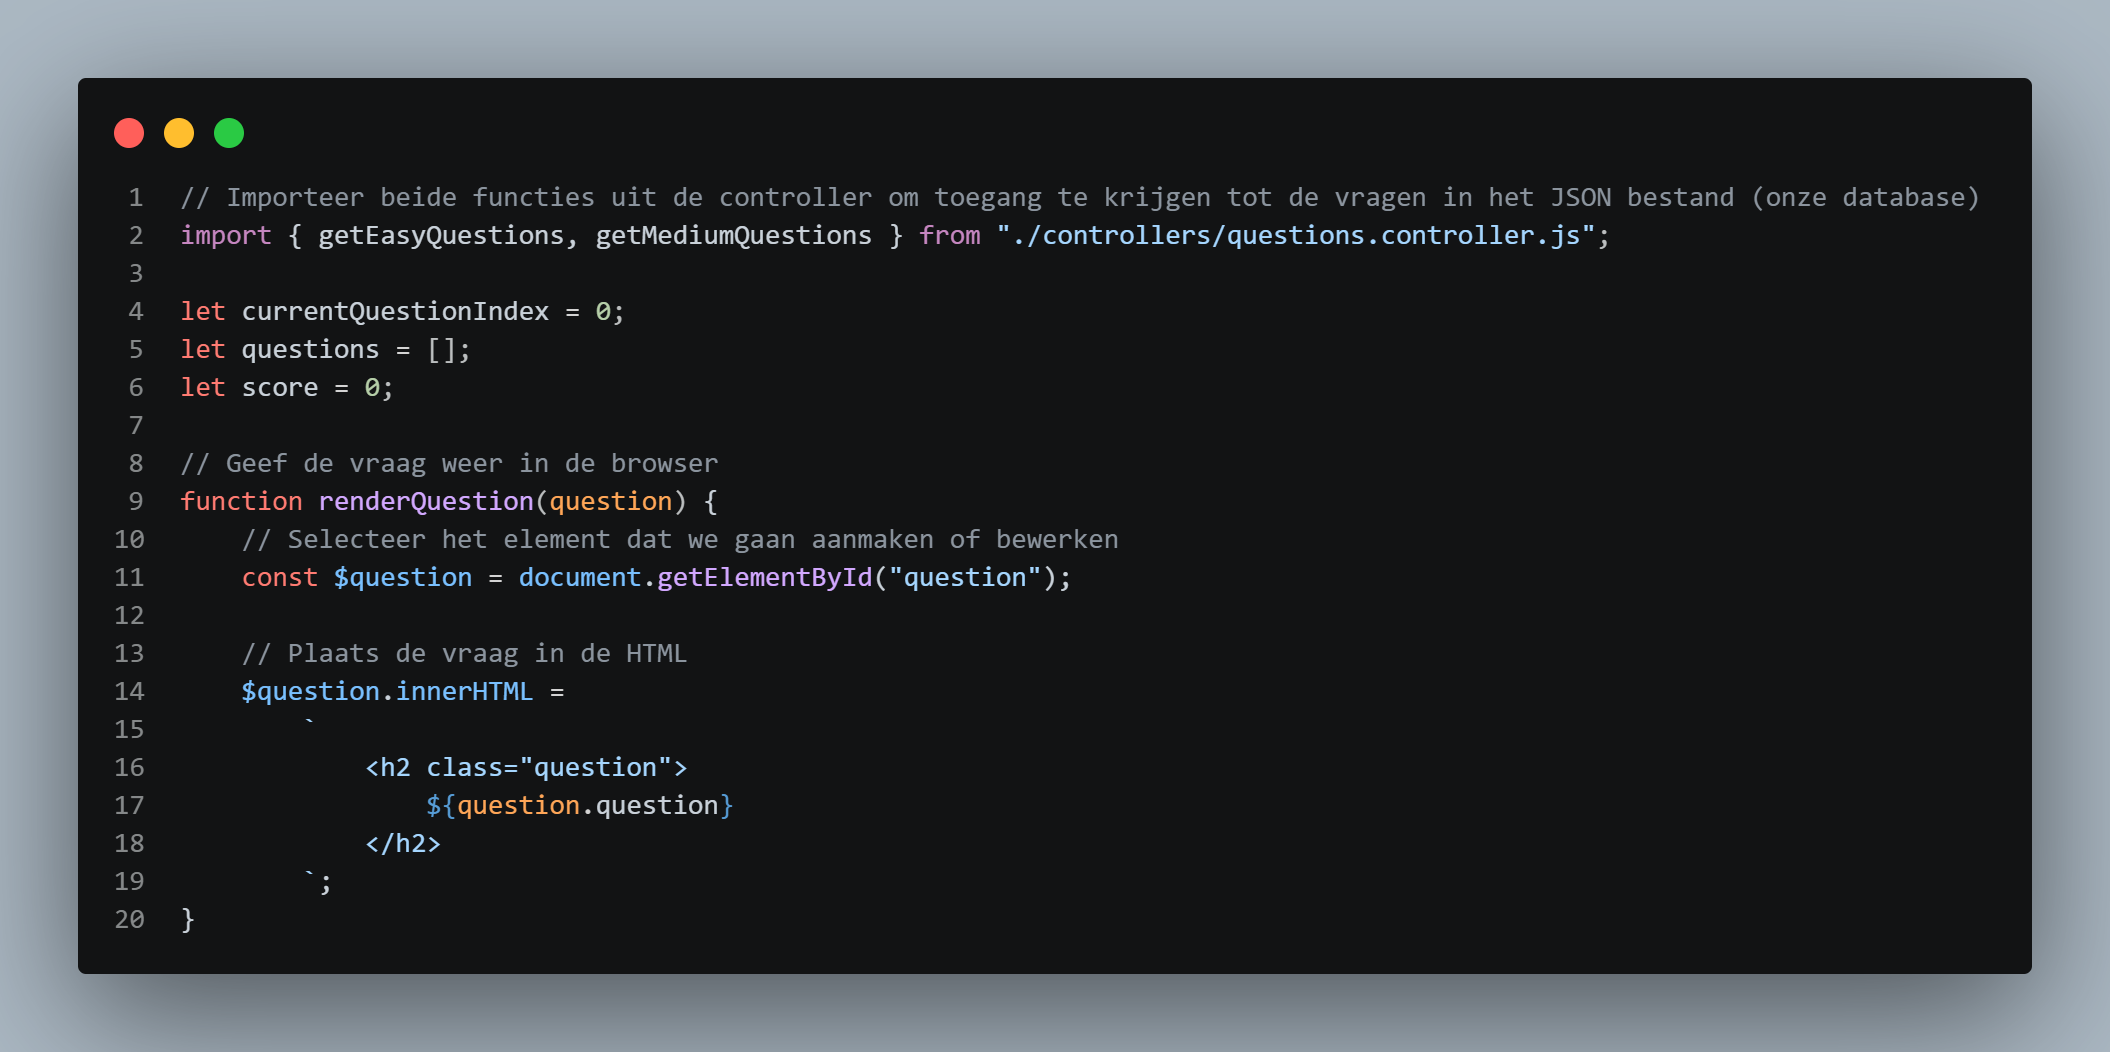
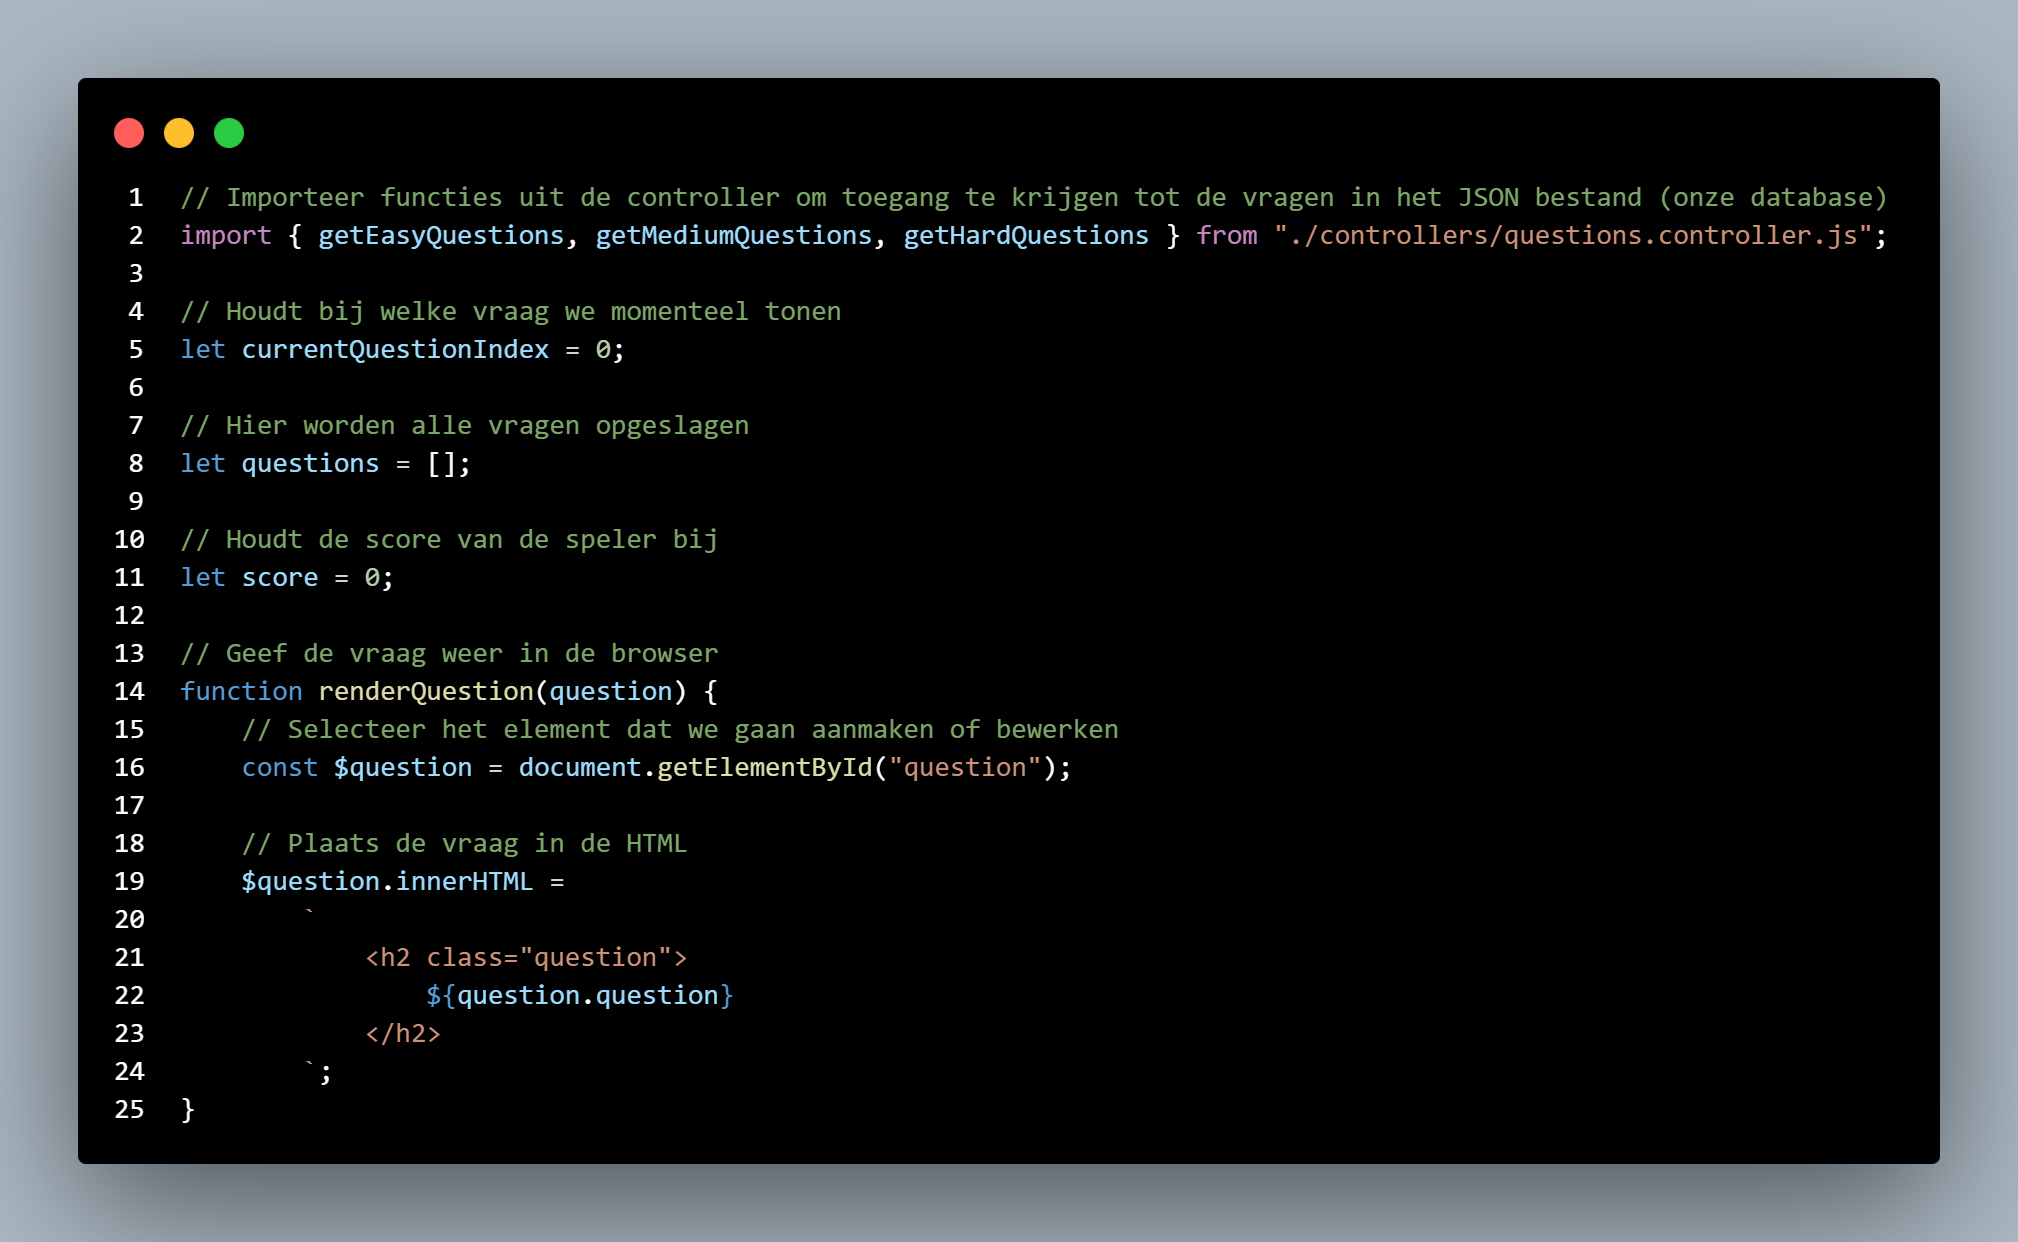
Tutorial image

Changed region(s): [[0.0312, 0.4259, 0.9678, 0.943], [0.0312, 0.0608, 0.9678, 0.3954]]

diff --git a/main.js b/main.js
@@ -1,4 +1,4 @@
-// Importeer beide functies uit de controller om toegang te krijgen tot de vragen in het JSON bestand (onze database)
+// Importeer functies uit de controller om toegang te krijgen tot de vragen in het JSON bestand (onze database)
 import { getEasyQuestions, getMediumQuestions, getHardQuestions } from "./controllers/questions.controller.js";
 
 // Houdt bij welke vraag we momenteel tonen
